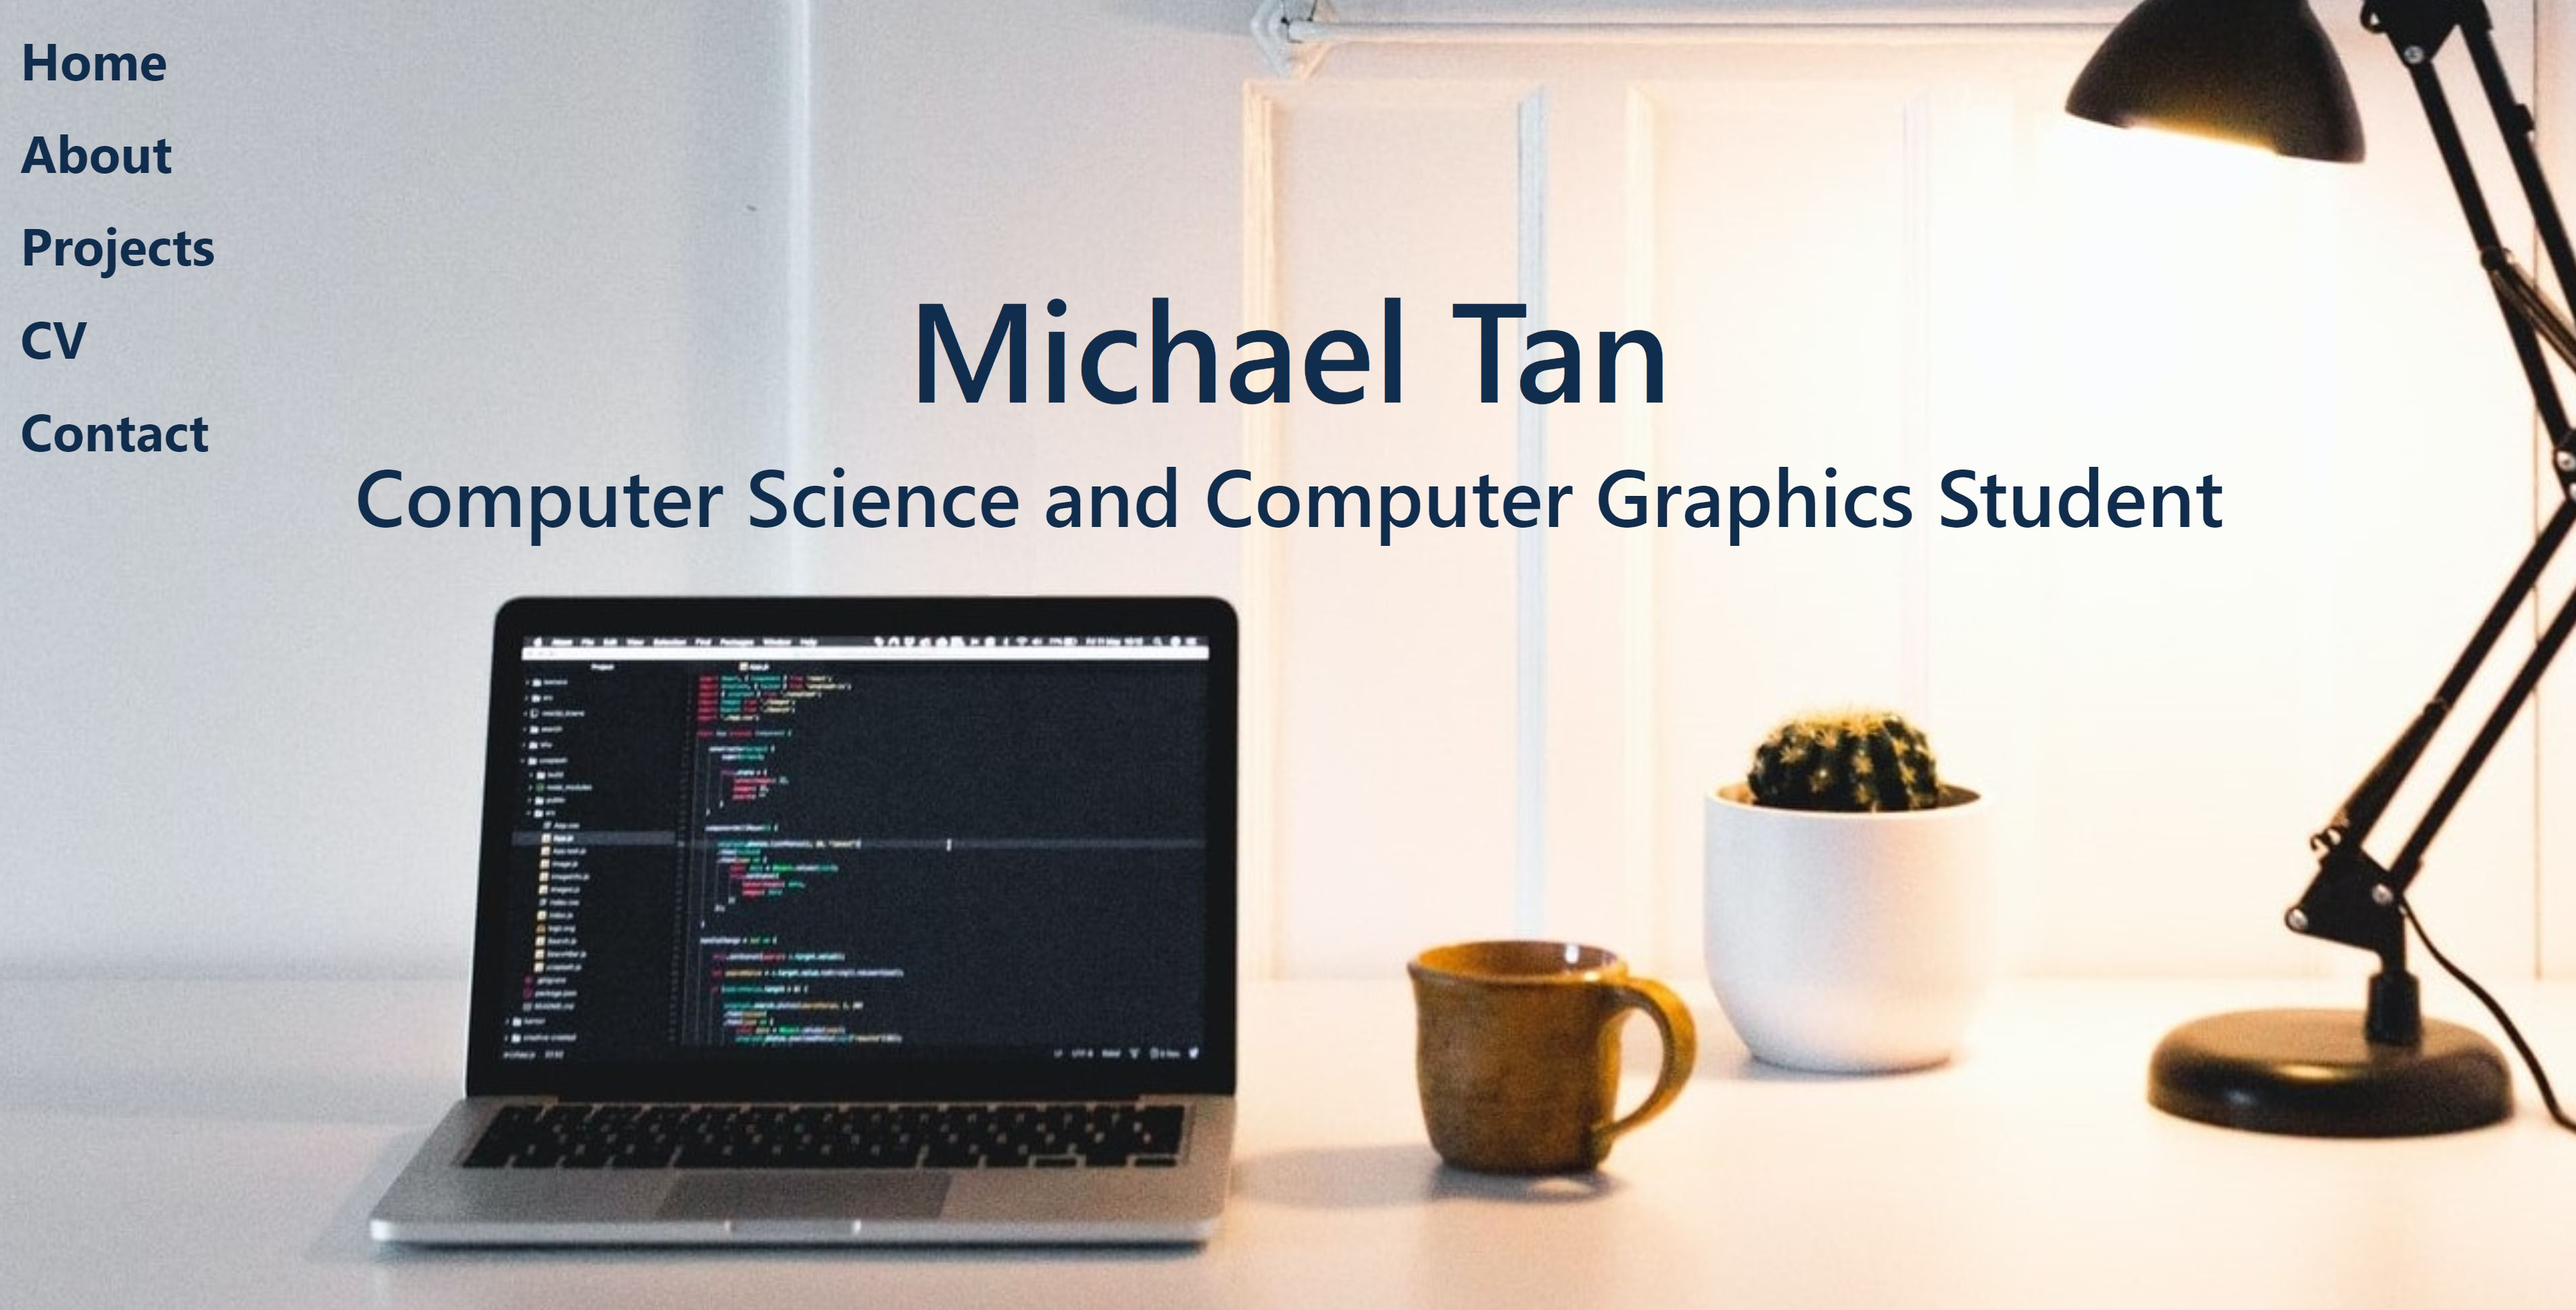
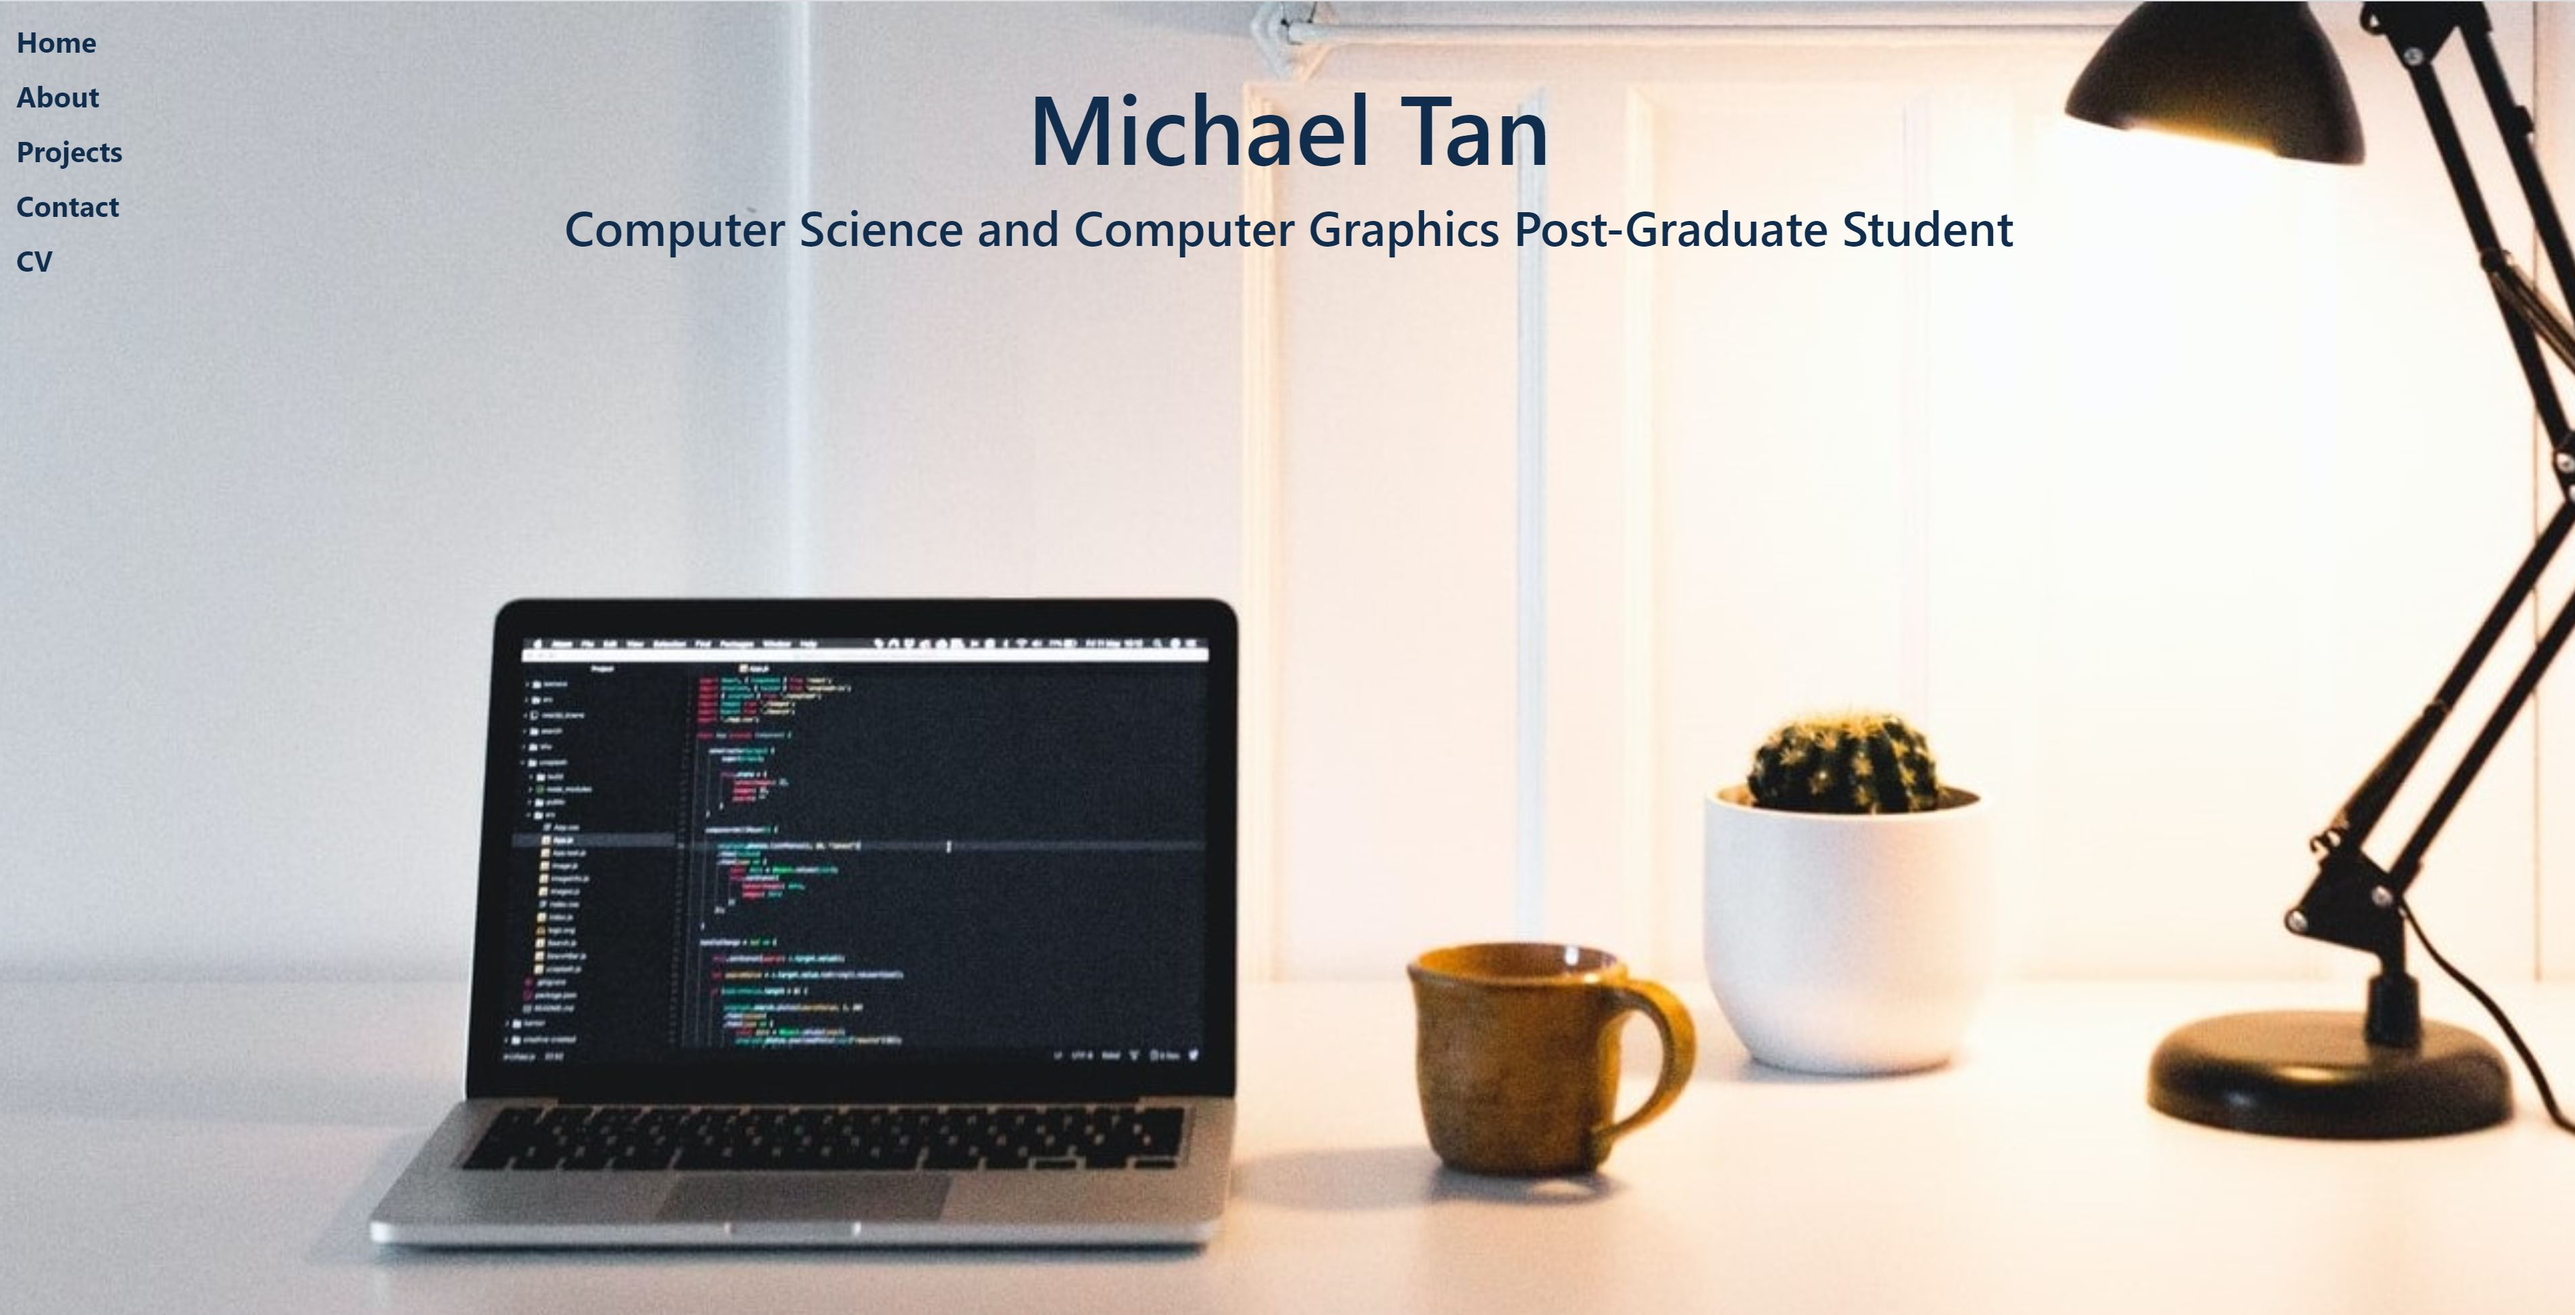
Update images

diff --git a/src/Components/Projects.jsx b/src/Components/Projects.jsx
@@ -6,8 +6,17 @@ function Projects() {
       <div style={{ width: "65vw", margin: "auto" }}>
         <h1>Projects</h1>
 
+        {/* Change - Update descriptions for projects based off CV */}
+
         <h2>React JS Quiz</h2>
-        <img src={"./images/React - Quiz.JPG"} alt="React quiz preview" />
+
+        {/* Change - Update image */}
+
+        <img
+          src={"./images/React - Quiz.JPG"}
+          alt="React quiz preview"
+          style={{ border: "1px solid #555" }}
+        />
         <p>
           My second iteration of a quiz website, which will be available to
           everyone. It uses React, JavaScript, CSS and HTML, and makes use of
@@ -17,6 +26,8 @@ function Projects() {
           scoreboards if they are signed in. This is my current project, and I
           am continuing to work on this.
         </p>
+
+        {/* Change - include link to actual react js quiz in button  */}
 
         <a href="https://github.com/tanmichael1/Quiz-ReactJS" target="_blank">
           <button type="button" className=" btn-xlarge  btn-outline-secondary">
@@ -56,6 +67,7 @@ function Projects() {
         <br></br>
 
         <h2>Personal Portfolio</h2>
+
         <img src={"./images/Portfolio.JPG"} alt="Personal Portfolio preview" />
         <p>
           I have created this mainly using React, along with JavaScript, CSS and
@@ -86,13 +98,15 @@ function Projects() {
         <br></br>
         <h2>The Cinema Critic (Wordpress)</h2>
 
+        {/* Change - Update wordpress image */}
+
         <img src={"./images/Wordpress.JPG"} alt="Wordpress Site preview" />
         <p>
           This is a movie review website which I created as a school personal
           project back in 2014 as part of Year 10’s curriculum. Initially it was
           intended to be just as a blog with 50 movie reviews written by myself.
           After completing that project however, I continued to write reviews,
-          and over the course of many years, I have now written over 800
+          and over the course of many years, I have now written over 850
           reviews. I have a passion and keen interest in film and tv, and so
           this was a passion project hobby for me, and I’m still active in
           running the site.

diff --git a/src/Components/About.jsx b/src/Components/About.jsx
@@ -5,6 +5,9 @@ function About() {
     <div id="about" className="about">
       <div style={{ width: "65vw", margin: "auto" }}>
         <h1>About</h1>
+
+        {/* Change - add more to about */}
+
         <p>
           I have just finished my degree of a Bachelor of Science degree at
           Victoria University, majoring in both computer science and computer
@@ -19,8 +22,8 @@ function About() {
           decided whilst at school that I wanted to be a part of this industry.
         </p>
         <p>
-          If I’m not coding or working on my own web development projects, I’m watching
-          movies or writing reviews and screenplays.
+          If I’m not coding or working on my own web development projects, I’m
+          watching movies or writing reviews and screenplays.
         </p>
       </div>
     </div>

diff --git a/src/Components/Home.jsx b/src/Components/Home.jsx
@@ -2,8 +2,15 @@ import React from "react";
 
 function Home() {
   return (
+    // Change - background image top starts showing bottom part in smaller widths
+
     <div id="home" className="home backgroundImage">
       <h1>Michael Tan</h1>
+
+      {/* Change - make h2 line change so doesn't cross sidebar in smaller display widths */}
+
+      {/* Change - alignment of h2 text over image */}
+
       <h2>Computer Science and Computer Graphics Post-Graduate Student</h2>
     </div>
   );

diff --git a/src/Components/Contact.jsx b/src/Components/Contact.jsx
@@ -88,6 +88,8 @@ class Contact extends React.Component {
         {/*Form layout that requires a Name, Email, and message */}
         <form className="test-mailing contact" onSubmit={this.handleSubmit}>
           <br />
+
+          {/* Change - Length of Contact */}
           <div
             className="contact1stHalf"
             style={{ fontSize: "1.2rem", paddingBottom: "2vh" }}

diff --git a/src/Components/Footer.jsx b/src/Components/Footer.jsx
@@ -2,6 +2,8 @@ import React from "react";
 import { IoLogoLinkedin, IoLogoFacebook, IoLogoGithub } from "react-icons/io";
 
 function Footer() {
+  // Change - footer too large in smaller sizes
+
   return (
     <div className="footer">
       <div className="footerIcon">

diff --git a/src/Components/Header.jsx b/src/Components/Header.jsx
@@ -3,6 +3,8 @@ import React from "react";
 function Header() {
   return (
     <div>
+      {/* Change - rename file name Header to sidebar */}
+
       <div className="sidenav">
         <a href="#home">Home</a>
         <a href="#about">About</a>

diff --git a/src/Components/CV.jsx b/src/Components/CV.jsx
@@ -4,6 +4,9 @@ function CV() {
   return (
     <div id="cv" className="cv">
       <h1>View CV</h1>
+
+      {/* Change - Length of CV */}
+
       <form className="cv" action="">
         <div className=" cv1stHalf">
           <img

diff --git a/public/styles.css b/public/styles.css
@@ -8,6 +8,10 @@ Dark blue: #112D4E
 
 */
 
+/* Change - check display of website on phone */
+
+/* Change - check display of website on official link */
+
 * {
   padding: 0;
   margin: 0;
